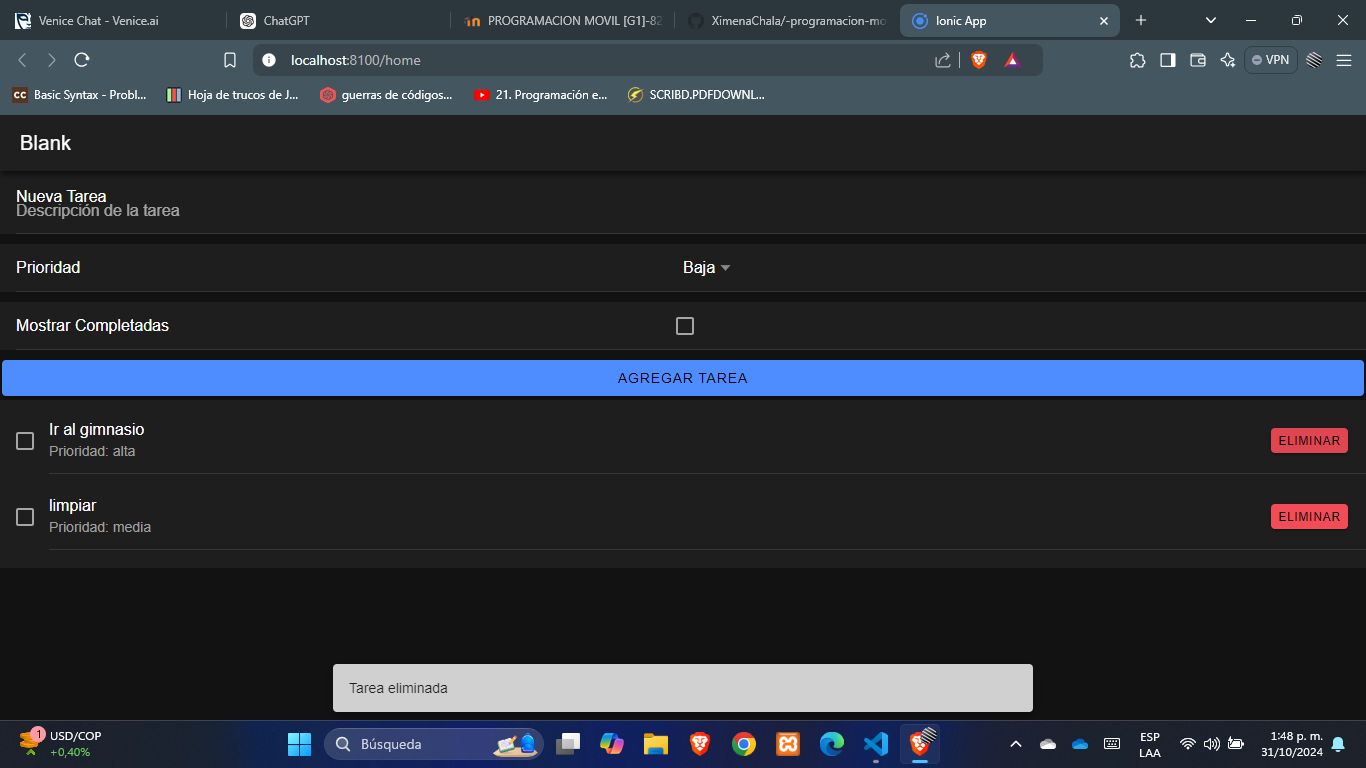
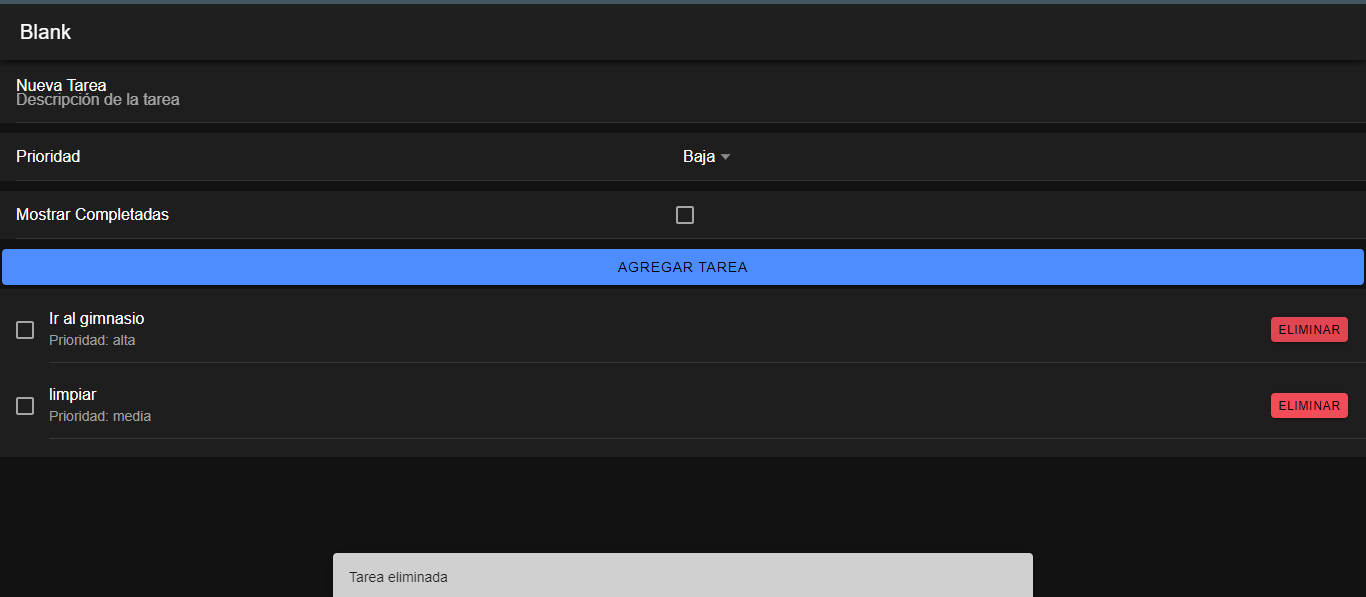
commit

diff --git a/08-week/README.md b/08-week/README.md
@@ -147,3 +147,9 @@ ion-checkbox {
 ## **Conclusión**
 La aplicación de lista de tareas permite a los usuarios gestionar sus tareas de manera eficiente. Se pueden agregar y eliminar tareas, seleccionar prioridades y filtrar tareas completadas. Se puede mejorar añadiendo persistencia de datos o características adicionales como edición de tareas.
 
+## 
+![Modelo relacional del ejercicio](imagenes/image.png)
+![Modelo relacional del ejercicio](imagenes/image1.png)
+![Modelo relacional del ejercicio](imagenes/image2.png)
+![Modelo relacional del ejercicio](imagenes/image3.png)
+![Modelo relacional del ejercicio](imagenes/image4.png)
